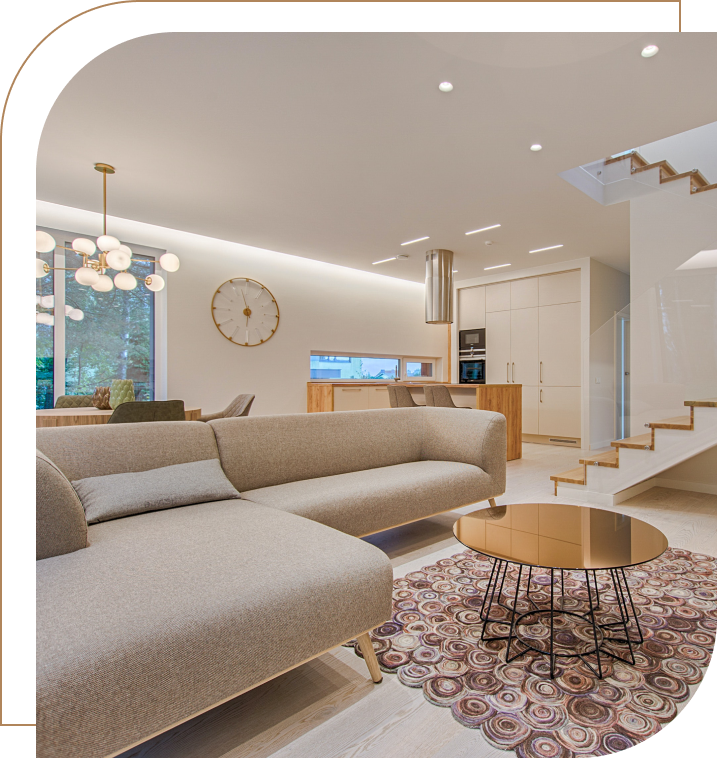
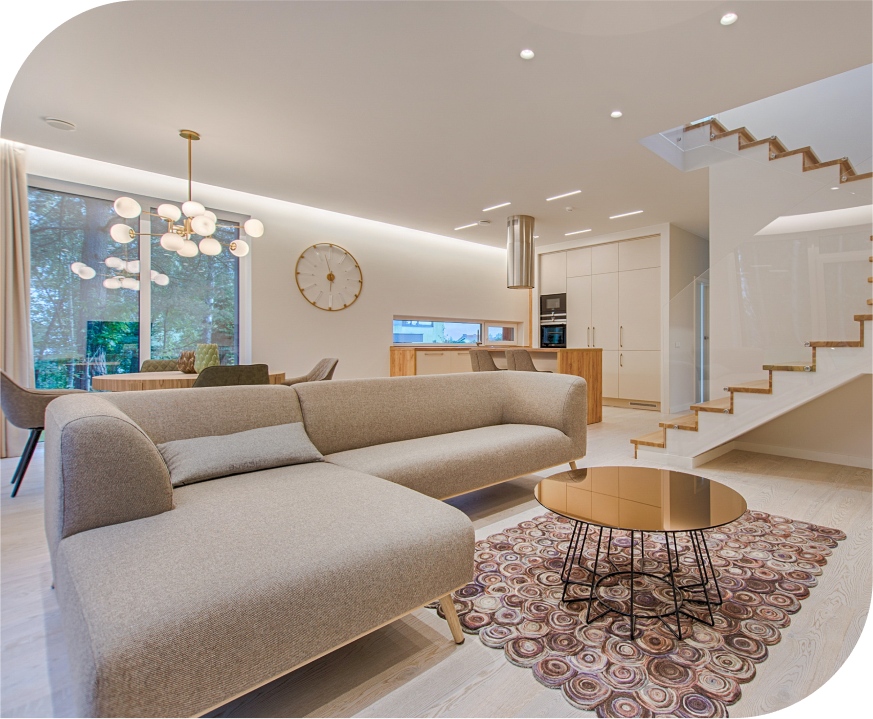
About area

diff --git a/index.html b/index.html
@@ -155,9 +155,42 @@
             </div>
         </div>
       </div>
+      <div class="design">
+        <img src="assets/img/design.png" alt="Design" class="img-fluid">
+      </div>
      </section>
       <!-- end service area -->
 
+      <!-- start about area -->
+      <section class="about-area">
+        <div class="container">
+          <div class="row d-flex align-items-center">
+            <div class="col-lg-6">
+              <div class="about-image design-image-two">
+                <img src="assets/img/about.png" alt="" class="img-fluid">
+              </div> <!-- end about-image-->
+            </div>
+            <div class="col-lg-6 mt-5 mt-lg-0">
+              <div class="about-text ps-5">
+                <div class="section-heading">
+                  <h4>ABOUT US</h4>
+                  <h2>Interioris The Will of An Epoch Mextreo</h2>
+                    <p>There are many variations of passages of Lorem Ipsum available,
+                      but the majority have suffered alteration in some form injected
+                      humour, or randomised words which don't look even slightly
+                      believable.If you are going to use a passage of Lorem Ipsum,
+                      sure there isn't anything embarrassing hidden the middleof text.
+                      All the Lorem Ipsum generators on the Internettend to repeat
+                      predefined chunks as necessary,making this the first true
+                      generator on the Internet.</p>
+                    <a href="#" class="theme-button">Learn More</a>
+                </div>
+              </div> <!-- end about-text-->
+            </div>
+          </div>
+        </div>
+      </section>
+      <!-- end about area -->
     </main>
     <!-- End Main -->
 

diff --git a/decbase.css b/decbase.css
@@ -56,6 +56,22 @@ h1, h2, h3, h4 {
     border-radius: 140px 0;
     z-index: -1;
 }
+.design-image-two {
+    position: relative;
+    z-index: 1;
+    border-radius: 140px 0;
+}
+.design-image-two::after {
+    position: absolute;
+    content: "";
+    top: -20px;
+    left: -20px;
+    border: 2px solid #CAA892;
+    width: 100%;
+    height: 100%;
+    border-radius: 140px 0;
+    z-index: -1;
+}
 .section-heading {
     
 }
@@ -125,9 +141,7 @@ h1, h2, h3, h4 {
     font-weight: 500;
 
 }
-.hero-img {
 
-}
 
 /* 
  Services area css
@@ -135,6 +149,7 @@ h1, h2, h3, h4 {
 
 .service-area {
     padding: 100px 0;
+    position: relative;
 }
 .service-list {
     margin-top: 60px;
@@ -197,7 +212,12 @@ h1, h2, h3, h4 {
 }
 
 
-
+/* 
+ about area css
+*/
+.about-area {
+    padding: 100px 0;
+}
 
 /* 
  Footer css
